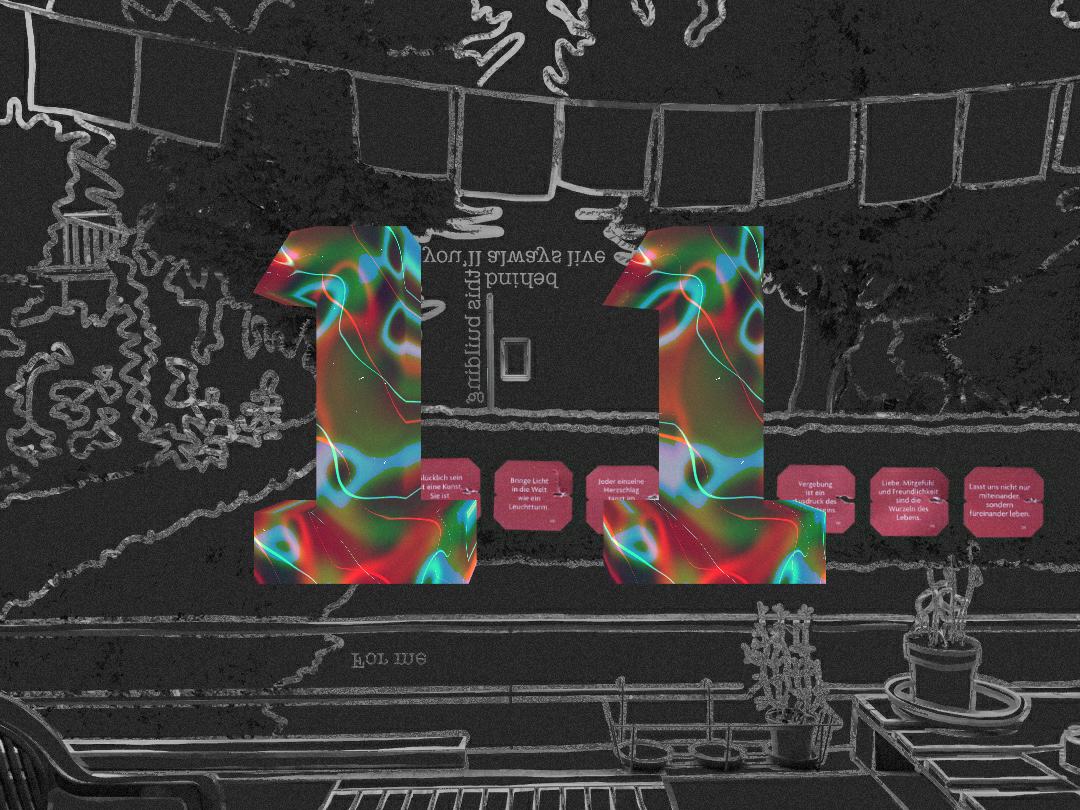
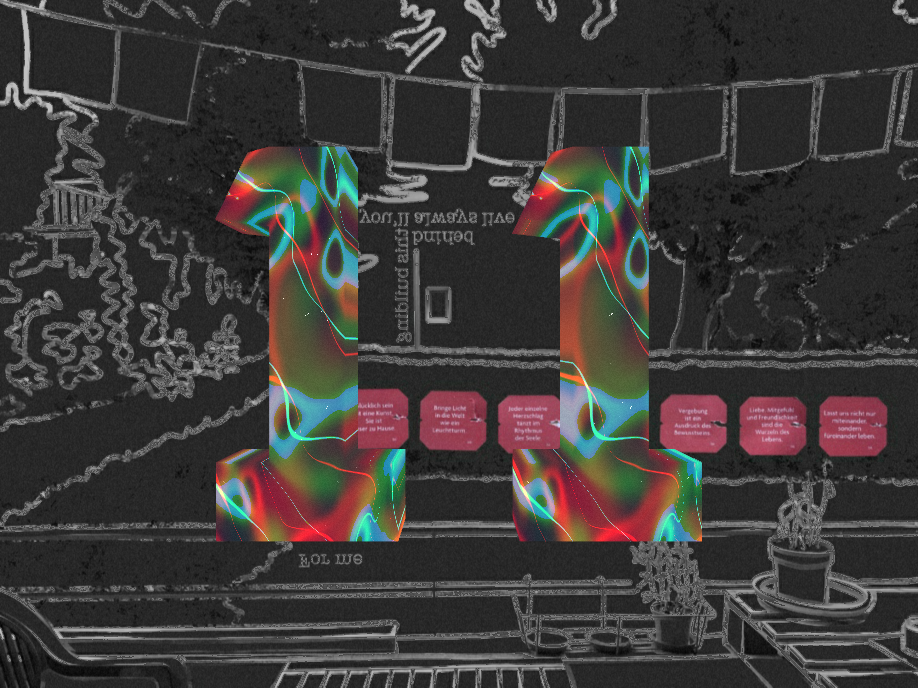
fix(downgrade animation resolution and remove frame exporter)

diff --git a/post011/src/ofApp.cpp b/post011/src/ofApp.cpp
@@ -4,18 +4,14 @@
 void
 ofApp::setup()
 {
-    // Frames exporter
-    framesExporter.setEnd(700);
-    framesExporter.setActive(false);
-
     // Setup background
     // - Load the background image
     backgroundImage.load("background.jpg");
 
     // - Get the image dimensions
-    w = backgroundImage.getWidth();
-    h = backgroundImage.getHeight();
-    //    backgroundImage.resize(w, h);
+    w = 0.85 * backgroundImage.getWidth();
+    h = 0.85 * backgroundImage.getHeight();
+    backgroundImage.resize(w, h);
 
     // - Define a plane where to project the background image
     backgroundPlane.set(w, h, 10, 10);
@@ -46,11 +42,9 @@ ofApp::setup()
 void
 ofApp::update()
 {
-    framesExporter.updateByFrames(ofGetFrameNum());
-
     // Update the rotation parameter to rotate the meshes
     if(rotateMesh)
-        meshRotation += 0.035;
+        meshRotation += 0.032;
 }
 
 //--------------------------------------------------------------
@@ -91,6 +85,7 @@ ofApp::draw()
     {
         ofTranslate({-2, 0});
         ofRotateYDeg(meshRotation);
+        ofScale(1.0, 1.3);
         meshL.draw();
     }
     ofPopMatrix();
@@ -98,6 +93,7 @@ ofApp::draw()
     {
         ofTranslate({2, 0});
         ofRotateYDeg(-meshRotation);
+        ofScale(1.0, 1.3);
         meshR.draw();
     }
     ofPopMatrix();

diff --git a/post011/src/ofApp.h b/post011/src/ofApp.h
@@ -1,7 +1,6 @@
 #pragma once
 
 #include "ofMain.h"
-#include "sooFramesExporter.h"
 
 class ofApp : public ofBaseApp
 {
@@ -18,9 +17,6 @@ public:
     float meshRotation;
     ofMesh meshL, meshR;
     ofShader plasticShader;
-
-    // Frames Exporter
-    soo::FramesExporter framesExporter;
 
 public:
     void setup();
